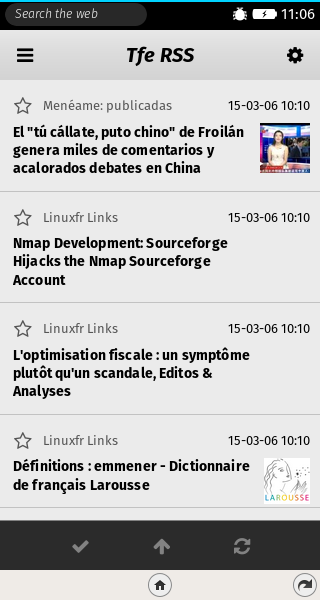
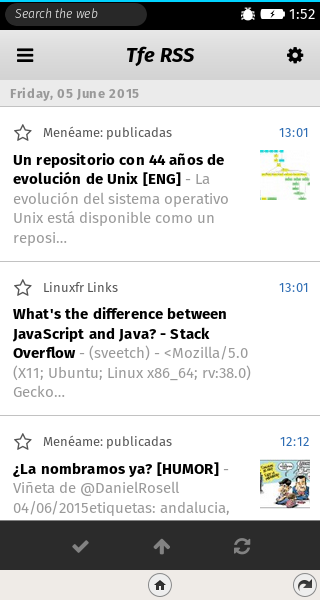
update star flag on mainlist when changed

diff --git a/js/modules/layout.js b/js/modules/layout.js
@@ -385,26 +385,43 @@ var Layout = function()
             li = li.parentNode;
         }
         var item_id = li.getAttribute('data-id');
+
         span.classList.add('updating');
         if(span.classList.contains('ko'))
         {
-            span.classList.remove('ko');
-            span.classList.remove('fa-star-o');
-            span.classList.add('fa-star');
+            Array.forEach(document.querySelectorAll("li[data-id='"+item_id+"']"), function(li)
+            {
+                var span = li.querySelector('.flag_star');
+                span.classList.remove('ko');
+                span.classList.remove('fa-star-o');
+                span.classList.add('fa-star');
+            });
         }
         else
         {
-            span.classList.remove('fa-star');
-            span.classList.add('ko');
-            span.classList.add('fa-star-o');
+            Array.forEach(document.querySelectorAll("li[data-id='"+item_id+"']"), function(li)
+            {
+                var span = li.querySelector('.flag_star');
+                span.classList.remove('fa-star');
+                span.classList.add('ko');
+                span.classList.add('fa-star-o');
+            });
         }
         this.controller.markStar(item_id, !span.classList.contains('ko'))
             .then(function(result)
             {
-                span.classList.remove('updating');
+                Array.forEach(document.querySelectorAll("li[data-id='"+item_id+"']"), function(li)
+                {
+                    var span = li.querySelector('.flag_star');
+                    span.classList.remove('updating');
+                });
             }, function()
             {
-                span.classList.remove('updating');
+                Array.forEach(document.querySelectorAll("li[data-id='"+item_id+"']"), function(li)
+                {
+                    var span = li.querySelector('.flag_star');
+                    span.classList.remove('updating');
+                });
                 self.alert(translate('network_error'));
             });
 

diff --git a/css/app.css b/css/app.css
@@ -534,8 +534,8 @@ div.leftlist_item
     margin:0px;
     padding:0px;
     white-space:normal;
-    padding:68px 96px 20px 20px;
-    padding:4.3rem 6rem 1.3rem 1.3rem;
+    padding:49px 120px 20px 20px;
+    padding:3.1rem 7.5rem 1.3rem 1.3rem;
 }
 .headerintro
 {
@@ -543,8 +543,8 @@ div.leftlist_item
     top:0px;
     width:100%;
     white-space:nowrap;
-    padding:20px 16px 0px 20px;
-    padding:1.3rem 1rem 0rem 1.3rem;
+    padding:8px 16px 0px 20px;
+    padding:0.5rem 1rem 0rem 1.3rem;
 }
 .slide.center li.feed_fulldate
 {
@@ -622,13 +622,15 @@ p.feed_fulldate
     right:1rem;
     top:68px;
     top:4.3rem;
-    bottom:0px;
+    height:0px;
+    padding-top:18.8%;
     margin:0px;
     margin-bottom:4px;
     margin-bottom:0.3rem;
-    width:80px;
-    width:5rem;
-    background-position:top right;
+    width:96px;
+    width:6rem;
+    background-position:center center;
+    background-color:#ddd;
     background-repeat:no-repeat;
     background-size:contain;
 

diff --git a/src/css/centerlist.css b/src/css/centerlist.css
@@ -36,7 +36,7 @@
     margin:0px;
     padding:0px;
     white-space:normal;
-    padding:4.3rem 6rem 1.3rem 1.3rem;
+    padding:3.1rem 7.5rem 1.3rem 1.3rem;
 }
 .headerintro
 {
@@ -44,7 +44,7 @@
     top:0px;
     width:100%;
     white-space:nowrap;
-    padding:1.3rem 1rem 0rem 1.3rem;
+    padding:0.5rem 1rem 0rem 1.3rem;
 }
 .slide.center li.feed_fulldate
 {
@@ -112,11 +112,13 @@ p.feed_fulldate
     position:absolute;
     right:1rem;
     top:4.3rem;
-    bottom:0px;
+    height:0px;
+    padding-top:18.8%;
     margin:0px;
     margin-bottom:0.3rem;
-    width:5rem;
-    background-position:top right;
+    width:6rem;
+    background-position:center center;
+    background-color:#ddd;
     background-repeat:no-repeat;
     background-size:contain;
 

diff --git a/Changelog.md b/Changelog.md
@@ -1,3 +1,7 @@
+# 0.2.5
+
+- View first word of content in main list
+
 # 0.2.4
 
 - View first word of content in main list
